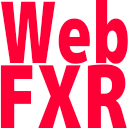
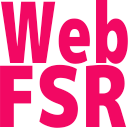
wip

diff --git a/README.md b/README.md
@@ -1,1 +1,45 @@
-# web-fxr
+# web-fsr
+
+This repository is an example of implementation
+[FidelityFX Super Resolution 1.0 (FSR)](https://github.com/GPUOpen-Effects/FidelityFX-FSR)
+that port to `WebGL`.\
+Thanks to original porting that its in [ShaderToy](https://www.shadertoy.com/).
+
+- [https://www.shadertoy.com/view/stXSWB](https://www.shadertoy.com/view/stXSWB)
+
+And I tried to use for upscaling the image of `<video>` element on HTML, thus I
+thought that the technique could make `static` video source and `streaming`
+clearer.
+
+## static
+
+- original video
+  \
+  resolution `1280 * 720`
+  ![IMG_0086-MOV-original.png](assets/IMG_0086-MOV-original.png?raw=true "IMG_0086-MOV-original")
+- FSR
+  ![IMG_0086-MOV-fsr.png](assets/IMG_0086-MOV-fsr.png?raw=true "IMG_0086-MOV-fsr")
+- comparison
+  ![IMG_0086-MOV-comparison.png](assets/IMG_0086-MOV-comparison.png?raw=true "IMG_0086-MOV-comparison")
+
+## streaming
+
+### [新・豪血寺一族 -煩悩解放 - レッツゴー！陰陽師](https://www.nicovideo.jp/watch/sm9)
+
+- original video
+  \
+  resolution `320 * 240`
+  ![sm9-original.png](assets/sm9-original.png?raw=true "sm9-original")
+- FSR ![sm9-fsr.png](assets/sm9-fsr.png?raw=true "sm9-fsr")
+- comparison
+  ![sm9-comparison.png](assets/sm9-comparison.png?raw=true "sm9-comparison")
+
+### [【MV再現】新・豪血寺一族‐レッツゴー！陰陽師【周央サンゴ】](https://www.nicovideo.jp/watch/sm41892494)
+
+- original video
+  \
+  resolution `1280 * 720`
+  ![sm41892494-original.png](assets/sm41892494-original.png?raw=true "sm41892494-original")
+- FSR ![sm41892494-fsr.png](assets/sm41892494-fsr.png?raw=true "sm41892494-fsr")
+- comparison
+  ![sm41892494-comparison.png](assets/sm41892494-comparison.png?raw=true "sm41892494-comparison")
